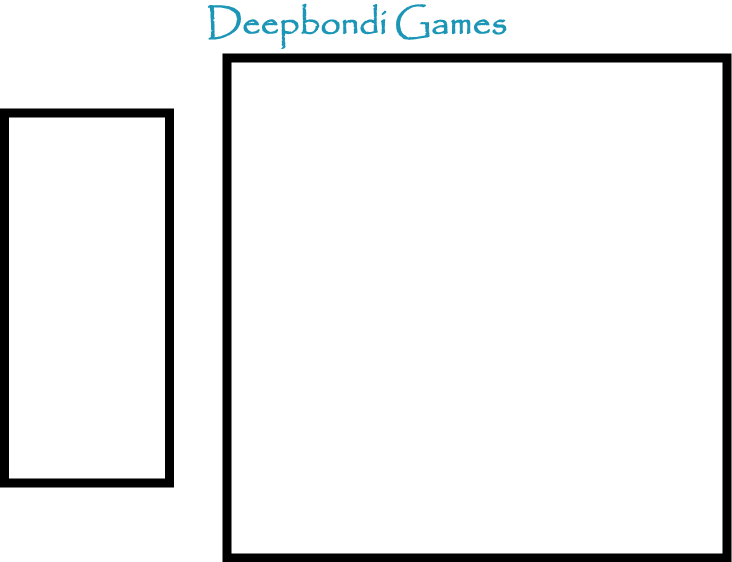
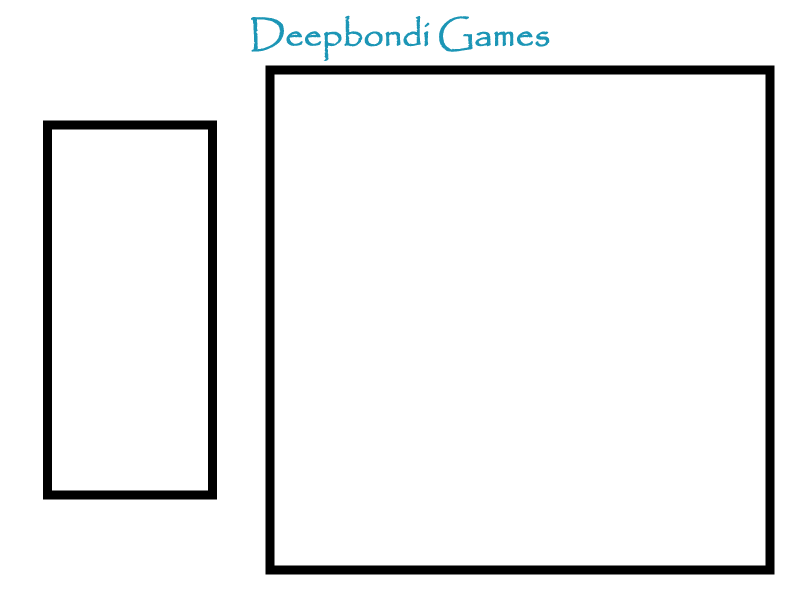
to test and see if we are anywhere near compiling and displaying

Changed region(s): [[0.2705, 0.0, 1.0, 1.0], [0.0, 0.1815, 0.2705, 0.8772]]

diff --git a/src/sdlttt.cpp b/src/sdlttt.cpp
@@ -21,6 +21,8 @@ using cleanup_unique_ptr = std::unique_ptr<T, void (*)(T *)>;
 const int SCREEN_WIDTH  = 800;
 const int SCREEN_HEIGHT = 600;
 
+const int BOARD_X = 520;
+const int BOARD_Y = 280;
 
 /**
 * Log an SDL error with some error message to the output stream of our choice
@@ -45,26 +47,6 @@ loadTexture(const std::string &file, SDL_Renderer *ren){
         logSDLError(std::cout, "LoadTexture");
     }
     return cleanup_unique_ptr<SDL_Texture>(texture, SDL_DestroyTexture);
-}
-
-/**
-* Draw an SDL_Texture to an SDL_Renderer at position x, y, with some desired
-* width and height
-* @param tex The source texture we want to draw
-* @param ren The renderer we want to draw to
-* @param x The x coordinate to draw to
-* @param y The y coordinate to draw to
-* @param w The width of the texture to draw
-* @param h The height of the texture to draw
-*/
-void renderTexture(SDL_Texture *tex, SDL_Renderer *ren, int x, int y, int w, int h){
-    //Setup the destination rectangle to be at the position we want
-    SDL_Rect dst;
-    dst.x = x;
-    dst.y = y;
-    dst.w = w;
-    dst.h = h;
-    SDL_RenderCopy(ren, tex, NULL, &dst);
 }
 
 /**
@@ -128,156 +110,34 @@ int main(int argc, char **argv){
         logSDLError(std::cout, "CreateRenderer");
         return 1;
     }
-
-
-    const std::string resPath = getResourcePath("Lesson3");
-    auto background = loadTexture(resPath + "background.png", renderer.get());
-    auto image = loadTexture(resPath + "image.png", renderer.get());
-    //Make sure they both loaded ok
-    if (background == nullptr || image == nullptr)
+    
+    // LOAD ALL THE Images
+    // background
+    const std::string backgroundPath = getResourcePath("backgrounds");
+    auto background = loadTexture(backgroundPath + "background.png", renderer.get());
+    // board
+    const std::string boardPath = getResourcePath("boards");
+    auto board = loadTexture(boardPath + "board.png", renderer.get());
+    // pieces
+    const std::sting piecesPath = getResourcePath("pieces");
+    auto ex = loadTexture(piecesPath + "ex.png", renderer.get());
+    auto oh = loadTexture(piecesPath + "oh.png", renderer.get());
+    
+    //Make sure they all loaded ok
+    if (background == nullptr || board == nullptr || ex == nullptr || oh == nullptr)
     {
         return 1;
     }
 
+    //initial display stuff.. this needs to be put into a function eventually... all this does.. or better yet a class
     SDL_RenderClear(renderer.get());
 
-    int bW, bH;
-    SDL_QueryTexture(background.get(), NULL, NULL, &bW, &bH);
-    renderTexture(background.get(), renderer.get(), 0, 0);
-    renderTexture(background.get(), renderer.get(), bW, 0);
-    renderTexture(background.get(), renderer.get(), 0, bH);
-    renderTexture(background.get(), renderer.get(), bW, bH);
-
-    int iW, iH;
-    SDL_QueryTexture(image.get(), NULL, NULL, &iW, &iH);
-    int x = SCREEN_WIDTH / 2 - iW / 2;
-    int y = SCREEN_HEIGHT / 2 - iH / 2;
-    renderTexture(image.get(), renderer.get(), x, y);
-
-    SDL_RenderPresent(renderer.get());
-    SDL_Delay(1000);
-
-    //Determine how many tiles we'll need to fill the screen
-    int xTiles = SCREEN_WIDTH / TILE_SIZE;
-    int yTiles = SCREEN_HEIGHT / TILE_SIZE;
-
-    //Draw the tiles by calculating their positions
-    for (int i = 0; i < xTiles * yTiles; ++i)
-    {
-        int x = i % xTiles;
-        int y = i / xTiles;
-        renderTexture(background.get(), renderer.get(), x * TILE_SIZE, y * TILE_SIZE, TILE_SIZE,
-                      TILE_SIZE);
-    }
-
-    SDL_QueryTexture(image.get(), NULL, NULL, &iW, &iH);
-    x = SCREEN_WIDTH / 2 - iW / 2;
-    y = SCREEN_HEIGHT / 2 - iH / 2;
-    renderTexture(image.get(), renderer.get(), x, y);
-
+    renderTexture(background.get(), renderer.get(), (SCREEN_WIDTH / 2), (SCREEN_HEIGHT / 2) );
+    renderTexture(board.get(), renderer.get(), BOARD_X, BOARD_Y );
 
 
     SDL_RenderPresent(renderer.get());
-    SDL_Delay(2000);
+    SDL_Delay(5000);
 
-    /*
-    SDL_Event e;
-    bool quit = false;
-    while (!quit){
-     while (SDL_PollEvent(&e)){
-      if (e.type == SDL_QUIT){
-       quit = true;
-      }
-      if (e.type == SDL_KEYDOWN){
-       quit = true;
-      }
-      if (e.type == SDL_MOUSEBUTTONDOWN){
-       quit = true;
-      }
-     }
-     //Render the scene
-     SDL_RenderClear(renderer);
-     renderTexture(image, renderer, x, y);
-     SDL_RenderPresent(renderer);
-}
-    */
-    SDL_Event event;
-    int alien_x = x;
-    int alien_y = y;
-    int alien_xvel, alien_yvel = 0;
-    bool quit = false;
-    while (!quit)
-    {
-        while( SDL_PollEvent( &event ) )
-        {
-            switch( event.type )
-            {
-                /* Look for a keypress */
-            case SDL_KEYDOWN:
-                /* Check the SDLKey values and move change the coords */
-                switch( event.key.keysym.sym )
-                {
-                case SDLK_LEFT:
-                    alien_xvel = -1;
-                    break;
-                case SDLK_RIGHT:
-                    alien_xvel =  1;
-                    break;
-                case SDLK_UP:
-                    alien_yvel = -1;
-                    break;
-                case SDLK_DOWN:
-                    alien_yvel =  1;
-                    break;
-                default:
-                    break;
-                }
-                break;
-                /* We must also use the SDL_KEYUP events to zero the x */
-                /* and y velocity variables. But we must also be       */
-                /* careful not to zero the velocities when we shouldn't*/
-            case SDL_KEYUP:
-                switch( event.key.keysym.sym )
-                {
-                case SDLK_LEFT:
-                    /* We check to make sure the alien is moving */
-                    /* to the left. If it is then we zero the    */
-                    /* velocity. If the alien is moving to the   */
-                    /* right then the right key is still press   */
-                    /* so we don't tocuh the velocity            */
-                    if( alien_xvel < 0 )
-                        alien_xvel = 0;
-                    break;
-                case SDLK_RIGHT:
-                    if( alien_xvel > 0 )
-                        alien_xvel = 0;
-                    break;
-                case SDLK_UP:
-                    if( alien_yvel < 0 )
-                        alien_yvel = 0;
-                    break;
-                case SDLK_DOWN:
-                    if( alien_yvel > 0 )
-                        alien_yvel = 0;
-                    break;
-                default:
-                    break;
-                }
-                break;
-            case SDL_MOUSEBUTTONDOWN:
-                quit = true;
-                break;
-            default:
-                break;
-            }
-
-
-        }
-        alien_x += alien_xvel;
-        alien_y += alien_yvel;
-
-        SDL_RenderClear(renderer.get());
-        renderTexture(image.get(), renderer.get(), alien_x, alien_y);
-        SDL_RenderPresent(renderer.get());
-    }
+    return 1;
 }
